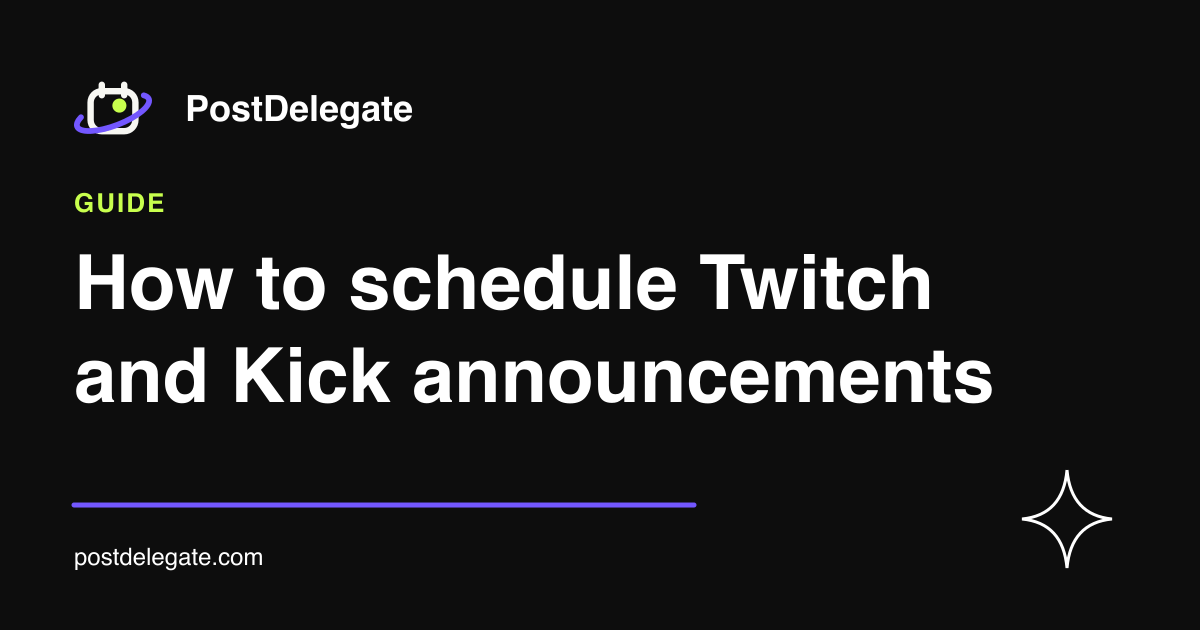
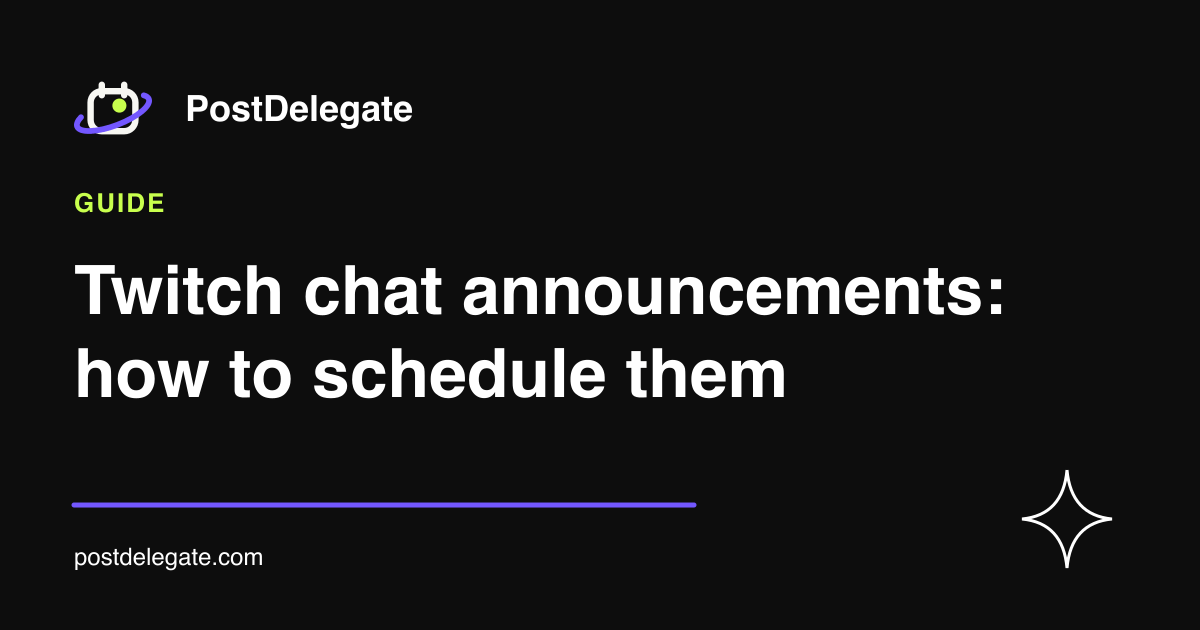
site: SEO fix pass 2026-11-14
Eight edits to existing pages, no new pages:
- google-business-scheduler: shorter title, "Google My Business"/GMB in the first paragraph
- /mcp: full body from the MCP docs, approvals and plans data
- schedule-youtube-videos: direct "Yes" answer, FAQ and matching FAQPage JSON-LD
- slack-scheduler: "schedules Slack messages, not meetings" line
- competitor-only compare pages: PostDelegate offered as a third option
- twitch guide and /twitch-scheduler link to each other; guide title leads with "Twitch chat announcements"
- /es/slack-scheduler: native Spanish Slack how-to
- 301 from /auth to app.postdelegate.com/auth

Changed region(s): [[0.0617, 0.3921, 0.8325, 0.5127], [0.0617, 0.5429, 0.8325, 0.6635]]

diff --git a/site/src/i18n/locales/en.ts b/site/src/i18n/locales/en.ts
@@ -9,7 +9,7 @@
 //   Content Studio, the plan names and every network name.
 import { SITE, CTA_LABEL, CTA_SHORT, CTA_NOTE } from '../../data/site';
 import { BUYER_FAQ } from '../../data/faq';
-import { PLANS } from '../../data/plans';
+import { PLANS, TRIAL_DAYS, planChannels } from '../../data/plans';
 import { AVAILABLE_NETWORKS } from '../../data/networks';
 import { LIVE_SCHEDULERS } from '../../data/schedulers';
 
@@ -28,6 +28,114 @@ export type SchedulerStrings = {
   localFaq?: QA[];
 };
 type Site = typeof SITE;
+
+// The English /mcp page body. Facts come only from docs/mcp, docs/mcp/tools, docs/approvals and plans.ts;
+// the plan rows are generated from PLANS so the prices on this page never drift from the product.
+const mcpPriceRows = PLANS.map((plan) => `<tr><td>${plan.name}</td><td>$${plan.monthly}</td><td>$${plan.yearly}</td><td>${planChannels(plan)}</td></tr>`).join('');
+const mcpBody = `<h2>What an MCP server does for your social calendar</h2>
+<p>MCP, the Model Context Protocol, is a standard way for an AI assistant to use tools in another service. PostDelegate runs an MCP server. Once your assistant is connected it can list your channels, read the rules of each network, upload media, create drafts and scheduled posts, and look at what is already on your calendar. You keep working in the assistant you already use, and the posts it prepares land in the same calendar as everything you schedule by hand.</p>
+<p>PostDelegate does not provide an AI of its own. MCP is how you use your own assistant, such as Claude, ChatGPT or an editor like Cursor, with your PostDelegate workspace. Any usage costs on the assistant's side are between you and its provider. The MCP server is included on every plan, and every plan starts with a ${TRIAL_DAYS}-day free trial that needs no card.</p>
+
+<h2>From a conversation to a draft</h2>
+<p>A compatible client discovers the tools the server offers and uses them to look up your channels, read each network's rules, upload media and create drafts. The useful starting point is a single draft that you can inspect in the calendar before anything is scheduled. Each post an assistant creates comes back with a preview link, so you can see it as it will look before you decide.</p>
+
+<h2>Connect your assistant in four steps</h2>
+<ol>
+<li><strong>Create a workspace.</strong> Start your free trial and sign in to PostDelegate. You need an account because the assistant signs in as you.</li>
+<li><strong>Copy the server address.</strong> The recommended address is <code>https://app.postdelegate.com/mcp-oauth-dynamic</code>. Settings, then Agents / Dev in the app shows the addresses with your own values filled in, ready to copy.</li>
+<li><strong>Add it to your assistant.</strong> In Claude and ChatGPT this is a custom connector. In Claude Code and Cursor it is one command or a few lines of configuration. The next section has each one.</li>
+<li><strong>Sign in with PostDelegate.</strong> The assistant opens a PostDelegate page in your browser, you sign in and click Authorize, and the assistant gets its own token for your workspace. You never copy an API key.</li>
+</ol>
+<p>Then start small. Ask your assistant to list your PostDelegate channels, and only after that ask for a draft. Say "draft" when you want to review first and "schedule" only when you are ready.</p>
+
+<h2>Set up Claude, ChatGPT, Claude Code and Cursor</h2>
+<h3>Claude</h3>
+<p>Claude connects to PostDelegate as a custom connector. In Claude open Settings, then Connectors, then Add custom connector. Enter a name such as PostDelegate, paste the server address above as the server URL, choose Add and then Connect, sign in to PostDelegate and click Authorize. PostDelegate is not in Claude's connector directory, so you add it by address, and whether custom connectors are available depends on your Claude plan. The <a href="/docs/mcp/claude">Claude setup guide</a> has the details.</p>
+<h3>ChatGPT</h3>
+<p>ChatGPT also uses a custom connector. Open Settings, then Connectors, and choose Create. If you do not see a way to create a connector, look under advanced settings for a developer mode switch, or ask your workspace admin. Enter a name, paste the server address, choose OAuth for authentication and then Connect. ChatGPT registers itself with PostDelegate automatically. The <a href="/docs/mcp/chatgpt">ChatGPT setup guide</a> has the steps.</p>
+<h3>Claude Code, Cursor and other clients</h3>
+<p>For Claude Code, add the server with one command, then run <code>/mcp</code> inside Claude Code to authenticate it:</p>
+<pre><code>claude mcp add postdelegate --transport http "https://app.postdelegate.com/mcp-oauth-dynamic"</code></pre>
+<p>Cursor takes the same address in <code>.cursor/mcp.json</code> under <code>mcpServers</code>, or through a one-click install link on the <a href="/docs/mcp/clients">clients page</a>. That page also has copy-paste configuration for Claude Desktop, VS Code, Codex, Windsurf and other clients, using either sign in with PostDelegate or an API key.</p>
+
+<h2>Server addresses and the two ways to sign in</h2>
+<p>The MCP server uses the streamable HTTP transport. Three addresses cover every kind of client:</p>
+<table>
+<thead><tr><th>Address</th><th>Sign-in</th><th>Use it for</th></tr></thead>
+<tbody>
+<tr><td><code>https://app.postdelegate.com/mcp-oauth-dynamic</code></td><td>Sign in with PostDelegate (OAuth)</td><td>Recommended. Claude, ChatGPT, Claude Code, Cursor and any client that can register itself.</td></tr>
+<tr><td><code>https://app.postdelegate.com/api/mcp</code></td><td>API key as a Bearer header, or OAuth</td><td>Clients and scripts that can set a header.</td></tr>
+<tr><td><code>https://app.postdelegate.com/api/mcp/YOUR_API_KEY</code></td><td>API key inside the address</td><td>Clients that can only take a URL.</td></tr>
+</tbody>
+</table>
+<p>With sign in with PostDelegate, the client registers itself using dynamic client registration and PKCE, and asks for the scopes <code>mcp:read</code> and <code>mcp:write</code>. Approvals appear under Settings, then Apps, then Approved Apps, where you can choose Revoke to cut an assistant off. These tokens do not expire on their own, so revoking is how you end access.</p>
+<p>The alternative is your workspace API key from Settings, then Agents / Dev. It works anywhere, but the key is as powerful as your account, so prefer OAuth where the client supports it. Rotating the key invalidates it everywhere. MCP directories and clients that discover servers on their own can read the server card at <code>https://app.postdelegate.com/.well-known/mcp/server-card.json</code>.</p>
+
+<h2>What your assistant can do: the tools</h2>
+<p>Your assistant discovers these tools by itself when it connects, and you do not call them directly. Tool names are shown exactly as the server reports them. The <a href="/docs/mcp/tools">tools reference</a> has the full detail.</p>
+<h3>Channels and settings</h3>
+<ul>
+<li><code>integrationList</code> lists your connected channels, and <code>groupList</code> lists your customers. Neither changes anything.</li>
+<li><code>integrationSchema</code> returns a channel's post rules, its length limit and the settings fields it needs. Assistants call it before scheduling.</li>
+<li><code>triggerTool</code> runs a helper lookup named by <code>integrationSchema</code>, for example fetching WordPress categories or Listmonk lists.</li>
+</ul>
+<h3>Posts</h3>
+<ul>
+<li><code>integrationSchedulePostTool</code> creates a draft, a scheduled post or an immediate post on one or more channels. It runs the same validation as the app and the API, and returns a post id and a preview link for each post, or a list of errors to fix.</li>
+<li><code>postsListTool</code> lists your posts between two dates with their state, errors, content and channel.</li>
+<li><code>postSettingsTool</code> updates the network settings of a scheduled post or draft that has not published. Content and date stay as they are.</li>
+<li><code>deletePostTool</code> deletes a post and its comments on that channel. A deleted scheduled post does not publish, and the deletion cannot be undone.</li>
+</ul>
+<h3>Media</h3>
+<ul>
+<li><code>uploadFromUrlTool</code> adds an image or video from a public URL to your media library, and can resize and re-encode it for the networks.</li>
+<li><code>mediaListTool</code> and <code>mediaStatusTool</code> let an assistant reuse a file and check whether an adjusted upload is ready or still processing.</li>
+<li>Assistants that support interactive MCP apps can show an upload widget so you can add a file from your own device. An assistant cannot read files on your computer.</li>
+</ul>
+<h3>Studio and AI media</h3>
+<p>Studio renders vertical 1080×1920 videos from the videos in your media library. An assistant can list the templates, start a render, check its status and cancel it. The seven templates are Hook over clip, Talking head + captions, Image slideshow, Before/after, Top-N list, Quote card and AI UGC. A render only saves a new video to your media library. It never creates, schedules or publishes a post.</p>
+<p>The server also defines tools for generating images and video and for turning long YouTube videos into short clips. PostDelegate does not provide AI generation of its own: the image tool needs your workspace's own OpenAI key, added by an admin in Settings, then AI, and the video and clipping tools are not set up today. You can use your own assistant's image and video features and bring the result in with the upload-from-URL tool.</p>
+<p>Tools that change data are marked as such to clients, so assistants that support confirmation prompts will ask you first. Tools only act on the workspace you approved, and a different workspace needs a separate sign-in.</p>
+
+<h2>The approval flow: AI drafts, you decide</h2>
+<p>Approvals put a second pair of eyes on a post before it goes out. A post that waits for approval is held as a draft and does not publish until someone approves it. For AI assistants this is a setting you control under Settings, then Approvals, in the AI agent guardrails section. The rules are checked on PostDelegate's servers, and an assistant gets a clear message when a rule stops it.</p>
+<ul>
+<li><strong>Require approval for AI-created posts.</strong> Posts from MCP clients and the PostDelegate Agent wait in Approvals until someone approves them. New workspaces start with this on.</li>
+<li><strong>Also require approval for API and CLI posts.</strong> Posts from the public API and the CLI wait for approval too. MCP clients always follow the setting above.</li>
+<li><strong>Channels agents can post to.</strong> Leave every channel unchecked to allow all channels, or check some to limit agents to them.</li>
+<li><strong>Max posts agents can create per day.</strong> A whole number from 1 to 10,000, or empty for no limit. It is counted per day in UTC across all agents, and a post to several channels counts once per channel.</li>
+</ul>
+<p>The Approvals page in the main menu lists every post that waits for a decision, with a badge for how many are waiting. Each post shows its channel, its planned time and which connected app or agent sent it, and the From AI agents tab narrows the list to posts that agents created. Approvers can approve, edit, request changes or reject each post, or tick several and choose Approve selected. Nothing in that list publishes until it is approved.</p>
+<p>When an assistant's post is held, the MCP tool reports it as <code>IN_REVIEW</code>, and the assistant is told the post is waiting for a teammate to approve it. An assistant's draft stays a draft: approval applies when it schedules a post or posts it now. If you need a client's yes before a post goes out, a client approval link lets someone outside your workspace approve a post without an account. The <a href="/docs/approvals">approvals guide</a> covers statuses, who can approve and activity history, and <a href="/guides/ai-social-media-agent-guardrails">how to let an AI agent post to social media safely</a> goes through the guardrails step by step.</p>
+
+<h2>Staying in control</h2>
+<ol>
+<li>Ask for a draft first and check it in the calendar before anything is scheduled.</li>
+<li>Keep your assistant's tool approval prompts on, so you confirm each action that changes something. Scheduling and deleting are the ones to watch.</li>
+<li>Open the preview link each post returns, <code>https://app.postdelegate.com/p/POST_ID?share=true</code>, to inspect it.</li>
+<li>Look for the label on posts created this way, which tells them apart on the calendar.</li>
+<li>Never paste an API key into a chat. Use OAuth, or put the key in the client's configuration.</li>
+</ol>
+<p>Content from your posts and videos is just data for the assistant to show you. Be wary of any assistant that treats text in a post as instructions.</p>
+
+<h2>Plans and prices</h2>
+<p>Public API and MCP are included on every plan, and every plan starts with a ${TRIAL_DAYS}-day free trial that needs no card. Prices are in US dollars.</p>
+<table>
+<thead><tr><th>Plan</th><th>Per month</th><th>Per year</th><th>Channels</th></tr></thead>
+<tbody>${mcpPriceRows}</tbody>
+</table>
+<p>The API key and MCP setup live in Settings, then Agents / Dev. <a href="/pricing">See the pricing page</a> for what each plan includes and <a href="/docs/billing">plans and billing</a> for how billing works.</p>
+
+<h2>If something does not work</h2>
+<ul>
+<li><strong>A 401, or "Invalid API Key or OAuth token".</strong> The key was rotated, mistyped or sent in the wrong form. The MCP address takes the key with or without the word Bearer in front.</li>
+<li><strong>The browser sign-in window never opens.</strong> Your client may not support OAuth for remote servers. Use the API key address instead.</li>
+<li><strong>"redirect_uri host is not a verified domain".</strong> A web client is trying to register a callback outside the allowed list. Use a local client or the API key address.</li>
+<li><strong>A tool is missing.</strong> The server lists only the tools your connection address offers. See the <a href="/docs/mcp/tools">tools reference</a>.</li>
+</ul>
+
+<aside class="doc-note">PostDelegate does not provide an AI of its own, and does not claim an official directory listing in Claude or ChatGPT. You add the server as a custom connector. The MCP server is included on every plan.</aside>
+<p>Related: <a href="/docs/mcp">MCP documentation</a> · <a href="/docs/mcp/agent-files">agent files</a> · <a href="/api">REST API</a> · <a href="/codex">Codex</a> · <a href="/claude-cowork">Claude and Cowork</a>.</p>`;
 
 const en = {
   // BCP 47 tag for formatting numbers (1,000). Arabic uses Western digits, like the prices.
@@ -332,7 +440,7 @@ const en = {
     h1: 'Social media MCP server for Claude, ChatGPT and Cursor',
     lead: 'MCP gives compatible AI tools a way to work with a publishing workspace. Bring your own assistant, sign in with PostDelegate and keep every post under your review.',
     readDocs: 'Read the MCP docs',
-    body: '<h2>From a conversation to a draft</h2><p>A compatible client discovers the tools the server offers and uses them to list your channels, read each network\'s rules, upload media and create drafts. The useful starting point is a single draft that you can inspect in the calendar before anything is scheduled.</p><h2>Set it up</h2><p>The server address is <code>https://app.postdelegate.com/mcp-oauth-dynamic</code>. Add it to your assistant and sign in with your PostDelegate account. There are step-by-step guides for <a href="/docs/mcp/claude">Claude</a>, <a href="/docs/mcp/chatgpt">ChatGPT</a> and <a href="/docs/mcp/clients">Claude Code, Cursor and other clients</a>.</p><h2>What to verify first</h2><ol><li>The client is connected to the intended PostDelegate workspace.</li><li>You understand which tools can change or publish content. The <a href="/docs/mcp/tools">tools reference</a> lists them.</li><li>A draft is visible in the app and the destination channel is correct.</li></ol><aside class="doc-note">PostDelegate does not provide an AI of its own, and does not claim an official directory listing in Claude or ChatGPT. You add the server as a custom connector. The MCP server is included on every plan.</aside><p>Related: <a href="/api">REST API</a> · <a href="/codex">Codex</a> · <a href="/claude-cowork">Claude and Cowork</a>.</p>',
+    body: mcpBody,
   },
   claudePage: {
     title: 'Claude and Cowork — PostDelegate',

diff --git a/site/src/i18n/locales/es.ts b/site/src/i18n/locales/es.ts
@@ -645,9 +645,54 @@ const dict: Dict = {
     },
     'slack-scheduler': {
       action: 'Programar mensajes',
-      description: `Programa mensajes de Slack con texto e imágenes en el canal que elijas, con respuestas en hilo. Agrega PostDelegate a tu espacio de trabajo. Prueba de ${TRIAL_DAYS} días.`,
-      h1: 'Programa mensajes de Slack en cualquier canal.',
-      intro: 'Agrega PostDelegate a un espacio de trabajo de Slack y envía mensajes programados con texto e imágenes al canal que elijas.',
+      title: 'Programar un mensaje en Slack: guía (computadora y móvil)',
+      description: 'Programar un mensaje en Slack: en la computadora con la flecha junto a enviar, en el móvil con pulsación larga. PostDelegate lo programa con tus otros canales.',
+      h1: 'Programar un mensaje en Slack: cómo se hace.',
+      intro: 'En Slack programas un mensaje en la computadora con el ícono de la flecha junto al ícono del avión de papel, y en el móvil manteniendo pulsado ese ícono. Los mensajes periódicos se crean con un flujo de trabajo. Con PostDelegate programas Slack junto a tus otros canales en un solo calendario.',
+      nativeHowTo: {
+        title: 'Programar en Slack mismo',
+        intro: 'Para un mensaje suelto no necesitas ninguna herramienta adicional. Así se hace, según la ayuda de Slack:',
+        sections: [
+          { heading: 'En la computadora', steps: [
+            'Abre el canal, la conversación de mensajes directos o el hilo donde quieres enviar el mensaje.',
+            'Escribe el mensaje y agrega, si quieres, archivos adjuntos, emojis, menciones o formato.',
+            'Haz clic en el ícono de la flecha junto al ícono del avión de papel y elige la fecha y la hora.',
+          ] },
+          { heading: 'En el móvil', steps: [
+            'Abre el canal, la conversación de mensajes directos o el hilo.',
+            'Pulsa el campo de mensaje y escribe el mensaje.',
+            'Mantén pulsado el ícono del avión de papel y elige cuándo se enviará.',
+          ] },
+          { heading: 'Encontrar y cambiar los mensajes programados', steps: [
+            'Haz clic en «Borradores y enviados» en la parte superior de la barra lateral (en el móvil, en la pestaña Inicio, pulsa «Borradores y enviados»).',
+            'Abre la pestaña «Programado».',
+            'En la computadora, pasa el cursor sobre el mensaje para ver sus opciones, como editarlo o eliminarlo. En el móvil, mantenlo pulsado para editarlo, reprogramarlo, enviarlo, cancelarlo o eliminarlo.',
+          ] },
+          { heading: 'Mensajes periódicos con un flujo de trabajo', steps: [
+            'En la computadora, haz clic en «Agentes y herramientas» en la barra lateral y, en «Flujos de trabajo», selecciona «Plantillas».',
+            'Elige la plantilla «Enviar un mensaje programado».',
+            'Haz clic en el primer ícono del lápiz, edita la fecha y la hora de inicio, elige una frecuencia y guarda.',
+            'Haz clic en el segundo ícono del lápiz, escribe el nombre del canal y selecciónalo en la lista, personaliza el mensaje y guarda.',
+            'Haz clic en «Finalizar», ponle un nombre al flujo de trabajo, haz clic en «Siguiente» y luego en «Publicar».',
+          ] },
+        ],
+        sourcesLabel: 'Fuentes (ayuda de Slack):',
+        sources: [
+          { label: 'Cómo enviar y leer mensajes', href: 'https://slack.com/intl/es-la/help/articles/201457107-C%C3%B3mo-enviar-y-leer-mensajes' },
+          { label: 'Programar mensajes periódicos en un canal', href: 'https://slack.com/intl/es-es/help/articles/23814859584659-Automatizaciones--Programar-mensajes-peri%C3%B3dicos-en-un-canal' },
+        ],
+      },
+      fitTitle: 'Cuándo conviene PostDelegate',
+      fitPoints: [
+        'Programas Slack junto a otros canales, como Discord, Telegram o Mastodon, y quieres verlo todo en un solo calendario.',
+        'Otra persona debe revisar y aprobar los mensajes antes de que salgan.',
+        'Quieres que Claude, ChatGPT u otro asistente de IA prepare borradores por MCP y que tú los apruebes.',
+        'Quieres que el mensaje salga desde una app y no desde tu cuenta personal de Slack.',
+      ],
+      localFaq: [
+        { q: '¿Se pueden programar mensajes periódicos en Slack?', a: 'Sí, con un flujo de trabajo. En la computadora haz clic en «Agentes y herramientas», en «Flujos de trabajo» selecciona «Plantillas», elige «Enviar un mensaje programado», define la fecha, la hora y la frecuencia y publica el flujo de trabajo. Un mensaje programado de la forma normal se envía una sola vez.' },
+        { q: '¿Dónde encuentro los mensajes programados en Slack?', a: 'En la parte superior de la barra lateral, en «Borradores y enviados», dentro de la pestaña «Programado». Desde ahí puedes ver las opciones de cada mensaje, como editarlo o eliminarlo. En PostDelegate, los mensajes de Slack programados aparecen en el calendario junto a tus otros canales.' },
+      ],
       plan: [
         'Agrega PostDelegate a un espacio de trabajo desde Agregar canal.',
         'Escribe un mensaje y elige el canal de Slack al que va.',

diff --git a/site/src/data/schedulers.ts b/site/src/data/schedulers.ts
@@ -12,6 +12,8 @@ export interface Scheduler {
   action?: string;
   /** Meta description override, 140-160 characters. */
   description?: string;
+  /** English <title> override (65 characters at most) for search intent the default "{name} Scheduler: {action} | PostDelegate" title misses. */
+  title?: string;
   /** Paragraphs under "What you can publish". */
   about?: string[];
   /** Numbered steps; they render as the how-to section and its HowTo JSON-LD. */
@@ -334,7 +336,7 @@ export const SCHEDULERS: Scheduler[] = [
     action: "Schedule Slack Messages",
     description: "Schedule Slack messages with text and images to the channel you pick, with replies sent in a thread. Add PostDelegate to your workspace. 7-day free trial.",
     h1: "Schedule Slack messages to any channel.",
-    intro: "Add PostDelegate to a Slack workspace, then send scheduled messages with text and images to the channel you pick.",
+    intro: "Add PostDelegate to a Slack workspace, then send scheduled messages with text and images to the channel you pick. This schedules Slack messages, not meetings or appointments.",
     about: [
       "Slack is a workplace chat app, and scheduled messages are useful for announcements, reminders and updates that should land at a set time. PostDelegate sends each post as a message to the channel you choose, and text uses Slack's own formatting.",
       "Messages appear from the PostDelegate app, not from your own Slack account. Add images as PNG, JPG or GIF. Video is not supported. Follow-up entries in a post are sent as replies in a thread under the first message.",
@@ -438,6 +440,7 @@ export const SCHEDULERS: Scheduler[] = [
     ],
     limits: ["Messages are text only. Images and video are not sent.", "If Twitch stops accepting the saved sign-in, the channel asks you to reconnect and scheduled messages will not send until you do."],
     docs: "/docs/channels/twitch",
+    guides: [{ href: "/guides/twitch-and-kick-chat-announcements", label: "Twitch chat announcements" }],
     faq: [
       { q: "Can I schedule Twitch announcements as well as chat messages?", a: "Yes. Set Message Type to Announcement and choose a colour: Primary, Blue, Green, Orange or Purple. Announcements are highlighted in chat." },
       { q: "Does the message come from my own Twitch account?", a: "Yes. Each post is sent to your channel's chat from your own Twitch account, as text of up to 500 characters." },
@@ -524,9 +527,10 @@ export const SCHEDULERS: Scheduler[] = [
   {
     slug: "google-business-scheduler", key: "google_business", name: "Google Business Profile",
     action: "Schedule Google Business Profile Posts",
+    title: "Google Business Profile Scheduler | PostDelegate",
     description: "Schedule Google Business Profile updates, events and offers with an image and a button, connected with Google sign-in. 7-day free trial, no card.",
     h1: "Schedule Google Business Profile posts.",
-    intro: "Connect a business location with Google sign-in, then schedule updates, events and offers with an optional image and button.",
+    intro: "Schedule Google My Business (GMB) posts: the updates, events and offers on your Google Business Profile. Connect a business location with Google sign-in, then add an optional image and button.",
     about: [
       "A Google Business Profile post is up to 1,500 characters with one optional image. Pick a standard update, an event with a title and dates, or an offer with a title and dates, plus an optional coupon code, redeem link and terms. Add an optional button, such as Book or Learn more, that opens a link you choose, or Call (uses your business phone number). Videos are not supported.",
       "You connect through Google's own sign-in, then pick the business location to post to. Each location is its own channel, so connect each location you manage. Signing in to PostDelegate with Google does not connect a Business Profile.",

diff --git a/site/src/data/guides.ts b/site/src/data/guides.ts
@@ -12,7 +12,7 @@ export const GUIDES: Guide[] = [
   { group: 'AI assistants', slug: 'ai-social-media-agent-guardrails', title: 'How to let an AI agent post to social media safely', description: 'Hold AI-drafted posts in an approvals inbox, limit which channels an agent can use and how much it can post, and keep a record of everything it did.' },
   { group: 'Channels', slug: 'schedule-bluesky-posts', title: 'How to schedule Bluesky posts and threads', description: 'Connect Bluesky with an app password, then schedule posts, threads, images and video from one calendar. Includes time slots, repeats and the API.' },
   { group: 'Channels', slug: 'schedule-youtube-videos', title: 'How to schedule YouTube videos (title, thumbnail, visibility)', description: 'Connect a YouTube channel, set the title, visibility, thumbnail and tags, and schedule a video upload for a time you choose. Covers quotas and Shorts.' },
-  { group: 'Channels', slug: 'twitch-and-kick-chat-announcements', title: 'How to schedule stream announcements to Twitch and Kick chat', description: 'Sign in with Twitch and Kick, then schedule chat messages and highlighted Twitch announcements for stream reminders, schedules and links, from one calendar.' },
+  { group: 'Channels', slug: 'twitch-and-kick-chat-announcements', title: 'Twitch chat announcements: how to schedule them on Twitch and Kick', description: 'Sign in with Twitch and Kick, then schedule chat messages and highlighted Twitch announcements for stream reminders, schedules and links, from one calendar.' },
   { group: 'Channels', slug: 'slack-scheduled-announcements', title: 'How to schedule announcements to Slack channels', description: 'Add PostDelegate to a Slack workspace and schedule team or community announcements with images to the channel you pick, with follow-ups sent in a thread.' },
   { group: 'Channels', slug: 'nostr-scheduling', title: 'How to schedule Nostr notes to relays', description: 'Connect a Nostr identity with a hex private key, schedule notes to public relays, add media and replies, and keep your main key safe with a separate key pair.' },
   { group: 'Channels', slug: 'telegram-channel-scheduling', title: 'How to schedule posts to a Telegram channel or group', description: 'Add @PostDelegateBot to your Telegram channel or group, link it with a one-time command, then schedule text, photos, videos and albums from one calendar.' },

diff --git a/site/src/pages/guides/schedule-youtube-videos.md b/site/src/pages/guides/schedule-youtube-videos.md
@@ -4,6 +4,16 @@ title: "How to schedule YouTube videos (title, thumbnail, visibility)"
 metaTitle: "How to Schedule YouTube Videos (Title, Thumbnail) | PostDelegate"
 description: "Connect a YouTube channel, set the title, visibility, thumbnail and tags, and schedule a video upload for a time you choose. Covers quotas and Shorts."
 date: "2026-11-01"
+answer: "Yes, you can schedule YouTube videos in PostDelegate: connect your channel, attach the MP4, set the title and visibility, pick a date and time and choose Add to Calendar, and the upload starts by itself at that time."
+faq:
+  - q: "Can you schedule YouTube videos?"
+    a: "Yes. Connect your YouTube channel from Add Channel, attach an MP4, set a title and a visibility, pick a date and time and choose Add to Calendar. The post then publishes automatically at that time. Use Save as draft to keep a video back until the file and title are final."
+  - q: "How to schedule YouTube videos?"
+    a: "Connect your channel (Add Channel, then YouTube, then sign in with Google), choose Create Post and attach the MP4, set the title (2 to 100 characters) and the visibility (Public, Private or Unlisted), add an optional thumbnail, then pick a date and time and choose Add to Calendar. The steps above go through each one."
+  - q: "How do I schedule an upload on YouTube for a specific time?"
+    a: "To schedule an upload on YouTube, pick the date and time in the composer and choose Add to Calendar. Times follow the timezone set in Settings > Global Settings. Post now starts the upload right away, and a draft never publishes until you schedule it."
+  - q: "Is PostDelegate a YouTube video scheduler?"
+    a: "Yes, alongside the other live networks. As a YouTube video scheduler it keeps the video, title, visibility, thumbnail and tags together for each upload and puts the upload on the same calendar as your other posts. The [YouTube scheduler page](/youtube-scheduler) is the short version of this guide. Every plan starts with a 7-day free trial that needs no credit card."
 ---
 
 A YouTube upload has more moving parts than a text post: a video file, a title, a description, a visibility choice, often a thumbnail, and tags. Scheduling means getting all of that ready ahead of time and letting the upload happen at the moment you chose. This guide walks through doing that in PostDelegate, including the details that most often trip people up.

diff --git a/site/src/pages/guides/twitch-and-kick-chat-announcements.md b/site/src/pages/guides/twitch-and-kick-chat-announcements.md
@@ -1,14 +1,14 @@
 ---
 layout: ../../layouts/Guide.astro
-title: "How to schedule stream announcements to Twitch and Kick chat"
-metaTitle: "Schedule Twitch and Kick Chat Announcements | PostDelegate"
+title: "Twitch chat announcements: how to schedule them on Twitch and Kick"
+metaTitle: "Twitch Chat Announcements: How to Schedule Them | PostDelegate"
 description: "Sign in with Twitch and Kick, then schedule chat messages and highlighted Twitch announcements for stream reminders, schedules and links, from one calendar."
 date: "2026-11-01"
 ---
 
 Streamers repeat themselves a lot in chat: the schedule, the Discord link, the sponsor line, the reminder that the giveaway ends at nine. Typing it by hand in the middle of a stream is a distraction, and chat bots that loop the same line every few minutes can feel like noise. Scheduling those messages for the moments they matter is a quieter middle ground.
 
-This guide shows how to schedule chat messages to Twitch and Kick with PostDelegate, including highlighted Twitch announcements, and how to plan a stream's messages in one go. Both connections are available today.
+This guide shows how to schedule chat messages to Twitch and Kick with PostDelegate, including highlighted Twitch announcements, and how to plan a stream's messages in one go. Both connections are available today. The [Twitch chat message scheduler](/twitch-scheduler) is the short version.
 
 ## What a scheduled chat message is, and is not
 
